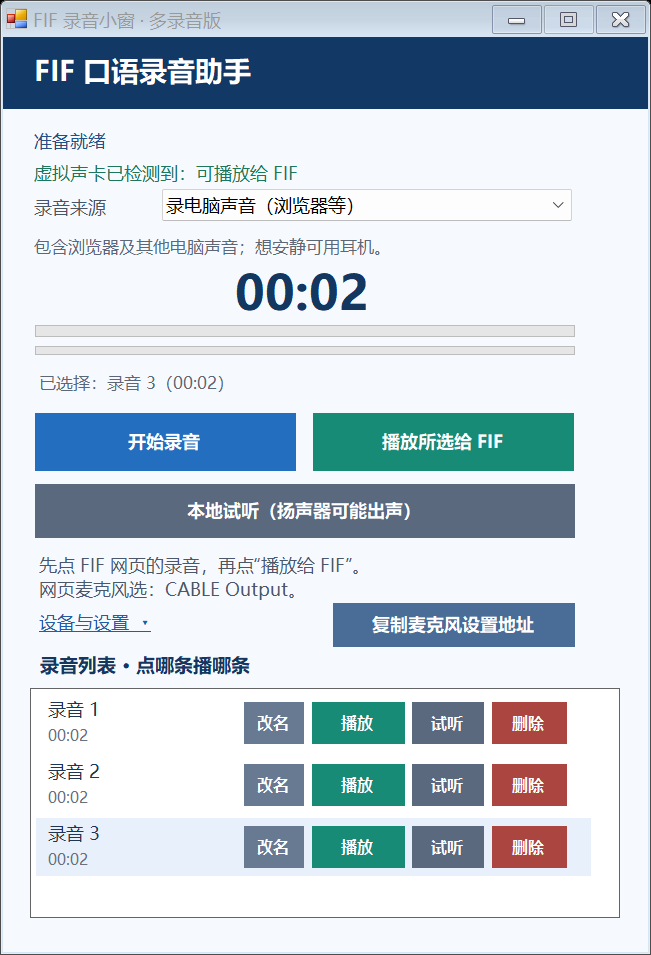
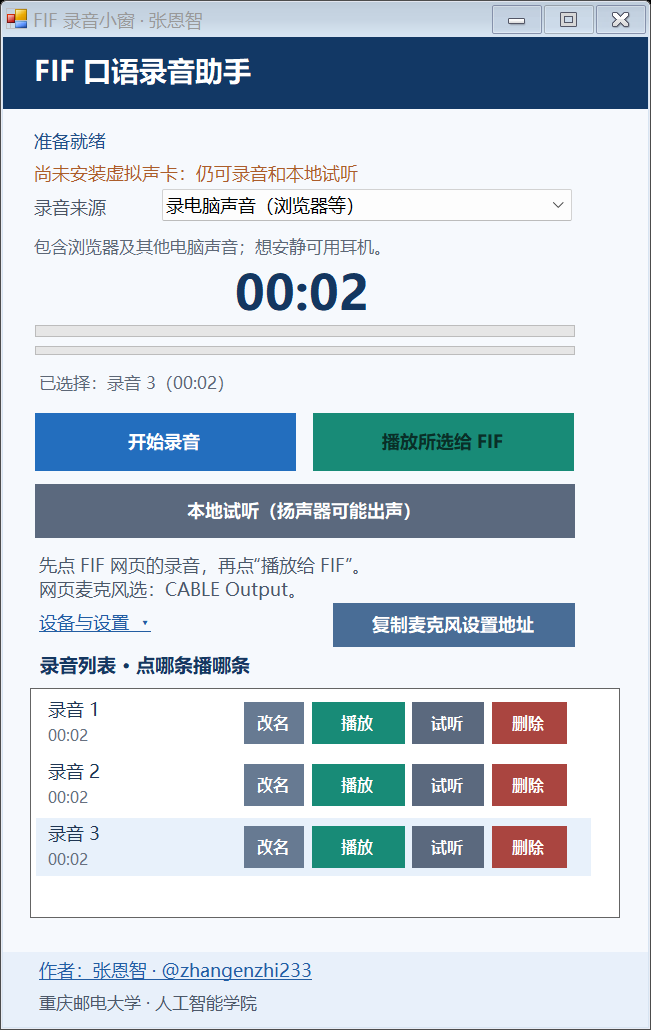
Add author attribution and feedback contact

Changed region(s): [[0.0, 0.0, 1.0, 1.0]]

diff --git a/src/FloatingForm.cs b/src/FloatingForm.cs
@@ -41,6 +41,7 @@ namespace FifFloat
         private readonly Panel _libraryPanel;
         private readonly FlowLayoutPanel _clipRows;
         private readonly Label _libraryCaption;
+        private readonly Panel _authorPanel;
 
         private bool _busy;
         private bool _settingsVisible;
@@ -63,10 +64,10 @@ namespace FifFloat
             _engine = new AudioEngine();
             _library = new RecordingLibrary(_engine.DataDirectory);
             Font = new Font("Microsoft YaHei UI", 9F, FontStyle.Regular, GraphicsUnit.Point);
-            Text = "FIF 录音小窗 · 多录音版";
+            Text = "FIF 录音小窗 · " + Program.Author;
             TopMost = true;
             StartPosition = FormStartPosition.CenterScreen;
-            ClientSize = new Size(430, 610);
+            ClientSize = new Size(430, 660);
             FormBorderStyle = FormBorderStyle.FixedSingle;
             MaximizeBox = false;
             BackColor = Color.FromArgb(246, 249, 253);
@@ -256,6 +257,24 @@ namespace FifFloat
             _clipRows.WrapContents = false;
             _clipRows.Padding = new Padding(2);
             _libraryPanel.Controls.Add(_clipRows);
+
+            _authorPanel = new Panel();
+            _authorPanel.Dock = DockStyle.Bottom;
+            _authorPanel.Height = 50;
+            _authorPanel.BackColor = Color.FromArgb(232, 240, 250);
+            Controls.Add(_authorPanel);
+            LinkLabel author = new LinkLabel();
+            author.Text = "作者：" + Program.Author + " · @zhangenzhi233";
+            author.LinkColor = Color.FromArgb(35, 93, 162);
+            author.Location = new Point(21, 4);
+            author.Size = new Size(388, 21);
+            author.LinkClicked += delegate { InstallClicked(null, EventArgs.Empty); };
+            _toolTip.SetToolTip(author, "查看作者、问题反馈邮箱、项目地址和使用说明");
+            _authorPanel.Controls.Add(author);
+            Label affiliation = MakeLabel(Program.Affiliation, 8.5F, FontStyle.Regular, Color.FromArgb(76, 88, 105));
+            affiliation.Location = new Point(21, 26);
+            affiliation.Size = new Size(388, 21);
+            _authorPanel.Controls.Add(affiliation);
 
             _timer = new Timer();
             _timer.Interval = 150;
@@ -689,11 +708,73 @@ namespace FifFloat
 
         private void InstallClicked(object sender, EventArgs e)
         {
+            using (Form about = CreateAboutDialog()) about.ShowDialog(this);
+        }
+
+        private Form CreateAboutDialog()
+        {
+            Form dialog = new Form();
+            dialog.Text = "关于 FIF 录音悬浮窗";
+            dialog.Font = Font;
+            dialog.ClientSize = new Size(430, 290);
+            dialog.FormBorderStyle = FormBorderStyle.FixedDialog;
+            dialog.StartPosition = FormStartPosition.CenterParent;
+            dialog.MaximizeBox = false;
+            dialog.MinimizeBox = false;
+            dialog.ShowInTaskbar = false;
+            Label details = MakeLabel("FIF Audio Float  v" + Program.DisplayVersion + "\r\n\r\n作者：" + Program.Author +
+                "（@zhangenzhi233）\r\n" + Program.Affiliation + "\r\n\r\n问题反馈：" + Program.FeedbackEmail,
+                9F, FontStyle.Regular, Color.FromArgb(31, 54, 83));
+            details.Location = new Point(18, 16);
+            details.Size = new Size(394, 139);
+            dialog.Controls.Add(details);
+            LinkLabel project = new LinkLabel();
+            project.Text = Program.ProjectUrl;
+            project.Location = new Point(18, 160);
+            project.Size = new Size(394, 25);
+            project.LinkClicked += delegate
+            {
+                try { Process.Start(Program.ProjectUrl); }
+                catch (Exception ex) { ShowError(ex); }
+            };
+            dialog.Controls.Add(project);
+            Label license = MakeLabel("Copyright © 2026 张恩智 · MIT\r\nNAudio 1.10.0 · Ms-PL", 8.5F, FontStyle.Regular, Color.FromArgb(76, 88, 105));
+            license.Location = new Point(18, 190);
+            license.Size = new Size(394, 40);
+            dialog.Controls.Add(license);
+            Button instructions = MakeButton("使用说明", Color.FromArgb(73, 109, 150));
+            instructions.Location = new Point(18, 244);
+            instructions.Size = new Size(100, 30);
+            instructions.Click += delegate { OpenInstructions(); };
+            dialog.Controls.Add(instructions);
+            Button copyEmail = MakeButton("复制反馈邮箱", Color.FromArgb(73, 109, 150));
+            copyEmail.Location = new Point(126, 244);
+            copyEmail.Size = new Size(148, 30);
+            copyEmail.Click += delegate
+            {
+                try { Clipboard.SetText(Program.FeedbackEmail); copyEmail.Text = "邮箱已复制"; }
+                catch (Exception ex) { ShowError(ex); }
+            };
+            dialog.Controls.Add(copyEmail);
+            Button close = MakeButton("关闭", Color.FromArgb(91, 105, 126));
+            close.Location = new Point(300, 244);
+            close.Size = new Size(112, 30);
+            close.DialogResult = DialogResult.Cancel;
+            dialog.Controls.Add(close);
+            dialog.AcceptButton = close;
+            dialog.CancelButton = close;
+            dialog.AutoScaleDimensions = new SizeF(96F, 96F);
+            dialog.AutoScaleMode = AutoScaleMode.Dpi;
+            return dialog;
+        }
+
+        private void OpenInstructions()
+        {
             try
             {
                 string readme = Path.Combine(AppDomain.CurrentDomain.BaseDirectory, "README.md");
                 if (File.Exists(readme)) Process.Start("notepad.exe", "\"" + readme + "\"");
-                else Process.Start("https://vb-audio.com/Cable/");
+                else Process.Start(Program.ProjectUrl);
             }
             catch (Exception ex) { ShowError(ex); }
         }
@@ -836,12 +917,12 @@ namespace FifFloat
             _libraryPanel.Location = ScalePoint(18, panelY, scale);
             _libraryPanel.Size = ScaleSize(394, panelHeight, scale);
 
-            int desiredClientHeight = (int)Math.Ceiling((_settingsVisible ? 685 : 610) * scale);
+            int desiredClientHeight = (int)Math.Ceiling((_settingsVisible ? 735 : 660) * scale);
             int chromeHeight = Height - ClientSize.Height;
             int availableClientHeight = Screen.FromControl(this).WorkingArea.Height - chromeHeight - 16;
             ClientSize = new Size((int)Math.Round(430 * scale), Math.Max(360, Math.Min(desiredClientHeight, availableClientHeight)));
 
-            int availableListHeight = ClientSize.Height - _libraryPanel.Top - (int)Math.Ceiling(12 * scale);
+            int availableListHeight = ClientSize.Height - _authorPanel.Height - _libraryPanel.Top - (int)Math.Ceiling(12 * scale);
             int twoRows = (int)Math.Ceiling(84 * scale);
             if (availableListHeight >= twoRows) _libraryPanel.Height = Math.Min(_libraryPanel.Height, availableListHeight);
             else _libraryPanel.Height = Math.Max(20, availableListHeight);

diff --git a/src/Program.cs b/src/Program.cs
@@ -9,13 +9,24 @@ using System.Windows.Forms;
 using NAudio.Wave;
 using NAudio.CoreAudioApi;
 
-[assembly: System.Reflection.AssemblyVersion("1.3.0.0")]
-[assembly: System.Reflection.AssemblyFileVersion("1.3.0.0")]
+[assembly: System.Reflection.AssemblyVersion("1.3.1.0")]
+[assembly: System.Reflection.AssemblyFileVersion("1.3.1.0")]
+[assembly: System.Reflection.AssemblyTitle("FIF 录音悬浮窗")]
+[assembly: System.Reflection.AssemblyProduct("FIF Audio Float")]
+[assembly: System.Reflection.AssemblyCompany("张恩智（重庆邮电大学 · 人工智能学院）")]
+[assembly: System.Reflection.AssemblyCopyright("Copyright © 2026 张恩智 (zhangenzhi233)")]
+[assembly: System.Reflection.AssemblyDescription("作者：张恩智；重庆邮电大学 · 人工智能学院；问题反馈：3487534331@qq.com；https://github.com/zhangenzhi233/fif-audio-float")]
 
 namespace FifFloat
 {
     internal static class Program
     {
+        internal const string DisplayVersion = "1.3.1";
+        internal const string Author = "张恩智";
+        internal const string Affiliation = "重庆邮电大学 · 人工智能学院";
+        internal const string FeedbackEmail = "3487534331@qq.com";
+        internal const string ProjectUrl = "https://github.com/zhangenzhi233/fif-audio-float";
+
         internal static void WriteJson(string path, object value)
         {
             File.WriteAllText(path, new JavaScriptSerializer().Serialize(value), new UTF8Encoding(false));

diff --git a/README.md b/README.md
@@ -1,6 +1,12 @@
 # FIF Audio Float / FIF 录音悬浮窗
 
-**v1.3.0**
+**v1.3.1**
+
+**作者：张恩智（[@zhangenzhi233](https://github.com/zhangenzhi233)）**
+
+重庆邮电大学 · 人工智能学院
+
+问题反馈：[3487534331@qq.com](mailto:3487534331@qq.com)
 
 FIF Audio Float（FIF 录音悬浮窗）是面向 Windows x64 的本地 WinForms 小工具：录制电脑声音或麦克风、管理多条 WAV，并通过 VB-CABLE 把选中的一条作为网页麦克风输入播放。
 
@@ -11,6 +17,7 @@ FIF Audio Float（FIF 录音悬浮窗）是面向 Windows x64 的本地 WinForms
 - **批量导入**：支持 16 位 PCM WAV，单声道或双声道，8–96 kHz，单个文件最大 120 MB。
 - **逐条播放**：把列表中的某一条固定送往 `CABLE Input`；本地试听则送往真实耳机或扬声器。
 - **本地管理**：改名、试听、直接删除、右键移出列表。默认编号会自动补齐，自定义名称保留。
+- **作者与反馈信息**：主窗口常驻显示作者姓名和学校、学院；点击署名或“设备与设置 → 说明”，可查看版本、反馈邮箱、项目地址和使用说明。
 - **明确边界**：不操作 FIF 网页，不提交录音，也不参与评分；网页录音的开始、结束、回放和提交均由使用者自己完成。
 
 ![FIF 录音悬浮窗合成示例界面](docs/界面预览-合成示例.png)
@@ -25,9 +32,11 @@ FIF Audio Float（FIF 录音悬浮窗）是面向 Windows x64 的本地 WinForms
 
 ## 下载与安装
 
-打开 [GitHub Releases](https://github.com/zhangenzhi233/fif-audio-float/releases/latest)，下载最新 Windows x64 发布包。本说明对应 **v1.3.0**。
+打开 [GitHub Releases](https://github.com/zhangenzhi233/fif-audio-float/releases/latest)，下载最新 Windows x64 发布包。本说明对应 **v1.3.1**。
 
 下载后解压到一个当前用户可写的普通文件夹，运行 `FifFloat.exe`。解压后的程序日常使用不需要管理员权限，也不要把程序放在需要管理权限才能写入的位置。
+
+从旧版升级时，先关闭旧程序，再把新版压缩包解压到原程序目录并替换同名程序文件，保留原有的 `录音/` 文件夹即可继续使用已有列表；无需重新安装 VB-CABLE。
 
 | 项目 | 要求 |
 | --- | --- |
@@ -155,6 +164,15 @@ powershell.exe -NoProfile -ExecutionPolicy Bypass -File .\build.ps1
 根据用户反馈，v1.3.0 已在一台 Windows 虚拟机中安装成功；该反馈仅覆盖安装环节。虚拟机中的实际 FIF 网页收音、回放质量和评分尚未验证，本说明不将其表述为已通过。
 
 在目标机器和实际页面开始使用前，建议按 [虚拟机迁移与恢复](docs/虚拟机迁移与恢复.md) 做一次不含隐私内容的短录音验收。安装成功不等于音频路由、浏览器权限和评分流程都已验证。
+
+## 作者与问题反馈
+
+- 作者：**张恩智**（GitHub：[@zhangenzhi233](https://github.com/zhangenzhi233)）。
+- 学校、学院：**重庆邮电大学 · 人工智能学院**。
+- 反馈邮箱：[3487534331@qq.com](mailto:3487534331@qq.com)；也可在 [GitHub Issues](https://github.com/zhangenzhi233/fif-audio-float/issues) 反馈。
+- 反馈时请说明程序版本、Windows 版本、操作步骤和错误提示；发送截图前请遮住私人录音和账号信息。
+
+主窗口署名、“关于/说明”和可执行文件属性均包含作者信息。“关于/说明”内可点击“复制反馈邮箱”。学校、学院是作者介绍，本项目为个人项目。
 
 ## 许可证
 

diff --git a/docs/制作与验证.md b/docs/制作与验证.md
@@ -2,7 +2,7 @@
 
 > 文档导航：[README](../README.md) · [原理与架构](原理与架构.md) · [虚拟机迁移与恢复](虚拟机迁移与恢复.md)
 
-本页面向需要从源码构建、运行自检或复核发布状态的维护者，对应 **v1.3.0**。普通下载用户请直接阅读 [README](../README.md) 的下载与使用说明。
+本页面向需要从源码构建、运行自检或复核发布状态的维护者，对应 **v1.3.1**。普通下载用户请直接阅读 [README](../README.md) 的下载与使用说明。
 
 ## 构建环境
 

diff --git a/CHANGELOG.md b/CHANGELOG.md
@@ -1,5 +1,12 @@
 # 更新记录
 
+## v1.3.1 — 2026-10-25
+
+- 主窗口常驻显示作者张恩智、GitHub 账号及“重庆邮电大学 · 人工智能学院”。
+- 点击署名或“设备与设置 → 说明”可查看版本、问题反馈邮箱、项目地址和使用说明。
+- 可执行文件属性及 MIT 版权声明加入作者署名；反馈邮箱为 3487534331@qq.com。
+- README 和下载包同步更新作者与反馈信息。
+
 ## v1.3.0 — 2026-10-24
 
 首次公开发行，基于已在本地使用和迁移的1.3版本。
